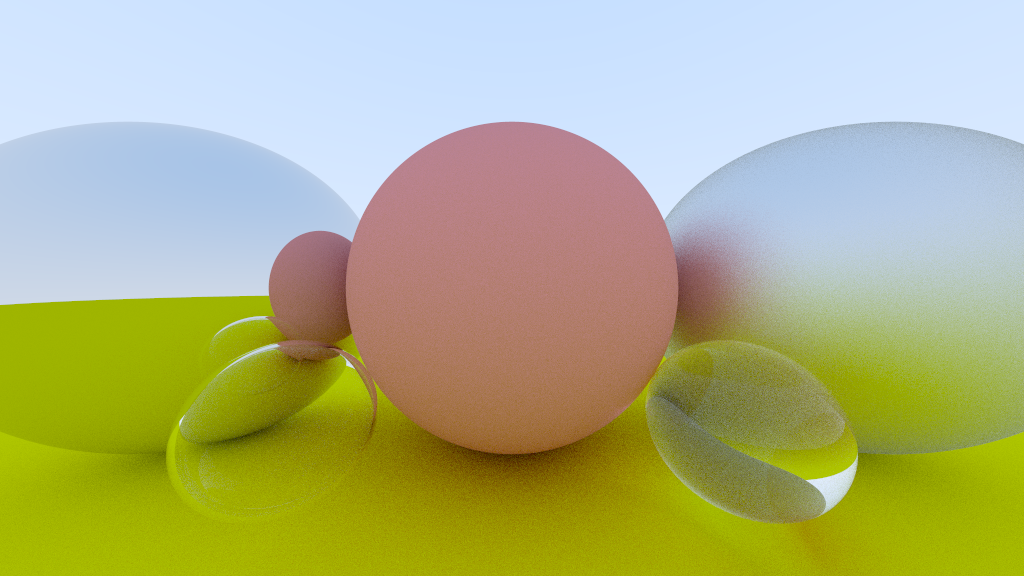
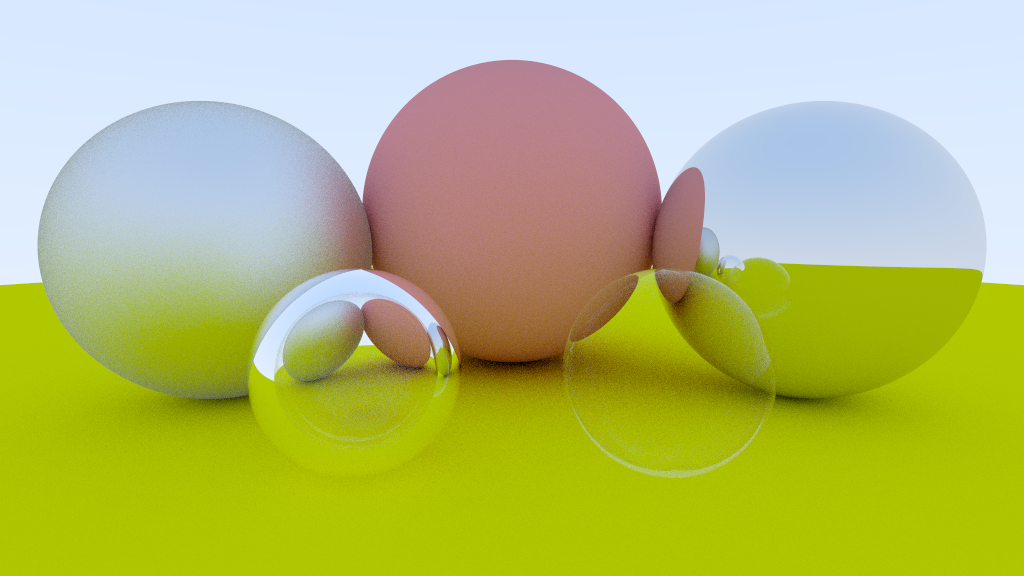
Implement look at target and field of view  parameter for camera

diff --git a/src/render/camera.rs b/src/render/camera.rs
@@ -5,7 +5,10 @@ use crate::math::Ray;
 pub struct Camera
 {
     position: Vec3,
+    look_at: Option<Vec3>,
+    up: Vec3,
 
+    field_of_view: f32,
     source_size: Vec2,
     target_size: Vec2,
 
@@ -21,14 +24,35 @@ impl Camera
         Camera
         {
             position: Vec3::new(0.0, 0.0, 0.0),
+            look_at: None,
+            up: Vec3::new(0.0, 1.0, 0.0),
 
-            source_size: Vec2::new(2.0, 2.0),
+            field_of_view: 90.0,
+            source_size: Vec2::new(1.0, 1.0),
             target_size: Vec2::new(1024.0, 576.0),
 
             near_plane_corner: Vec3::new(0.0, 0.0, 0.0),
             near_plane_width: Vec3::new(0.0, 0.0, 0.0),
             near_plane_height: Vec3::new(0.0, 0.0, 0.0),
         }
+    }
+
+    pub fn set_position(mut self, position: Vec3) -> Self
+    {
+        self.position = position;
+        self
+    }
+
+    pub fn set_look_at(mut self, target: Option<Vec3>) -> Self
+    {
+        self.look_at = target;
+        self
+    }
+
+    pub fn set_field_of_view(mut self, degrees: f32) -> Self
+    {
+        self.field_of_view = degrees;
+        self
     }
 
     pub fn set_source_size(mut self, width: f32, height: f32) -> Self
@@ -59,15 +83,24 @@ impl Camera
             corrected_size.y *= source_aspect_ratio / target_aspect_ratio;
         }
 
-        self.near_plane_corner = Vec3::new(corrected_size.x * -0.5, corrected_size.y * -0.5, -1.0);
-        self.near_plane_width = Vec3::new(corrected_size.x, 0.0, 0.0);
-        self.near_plane_height = Vec3::new(0.0, corrected_size.y, 0.0);
+        corrected_size.x *= self.field_of_view / 90.0;
+        corrected_size.y *= self.field_of_view / 90.0;
+
+        let look_at = self.look_at.unwrap_or(self.position + Vec3::new(0.0, 0.0, -1.0));
+
+        let w = (self.position - look_at).normalized();
+        let u = self.up.cross(w).normalized();
+        let v = w.cross(u);
+
+        self.near_plane_corner = self.position - u * corrected_size.x * 0.5 - v * corrected_size.y * 0.5 - w;
+        self.near_plane_width = u * corrected_size.x;
+        self.near_plane_height = v * corrected_size.y;
 
         self
     }
 
     pub fn calculate_ray(&self, u: f32, v: f32) -> Ray
     {
-        Ray::new(self.position, (self.near_plane_corner + self.near_plane_width * u + self.near_plane_height * v).normalized())
+        Ray::new(self.position, (self.near_plane_corner + self.near_plane_width * u + self.near_plane_height * v - self.position).normalized())
     }
 }

diff --git a/src/main.rs b/src/main.rs
@@ -18,23 +18,25 @@ fn main()
     let image_heigth = 576;
 
     let camera = render::Camera::new()
-        .set_source_size(2.0, 2.0)
+        .set_position(Vec3::new(0.0, 0.0, 0.6))
+        .set_look_at(Some(Vec3::new(0.0, -0.2, -1.0)))
+        .set_field_of_view(90.0)
         .set_target_size(image_width, image_heigth)
         .build();
     
     let scene = render::Scene::new()
-        .add_primitive(primitive::Sphere::new(Vec3::new(0.5, -0.3, -0.65), 0.18, material::Refractive::from(Color::new(1.0, 1.0, 1.0, 1.0), 1.5)))
-        .add_primitive(primitive::Sphere::new(Vec3::new(-0.5, -0.3, -0.65), -0.18, material::Refractive::from(Color::new(1.0, 1.0, 1.0, 1.0), 1.06)))
-        .add_primitive(primitive::Sphere::new(Vec3::new(0.0, 0.0, -1.0), 0.5, material::Diffuse::from(Color::new(0.8, 0.3, 0.3, 1.0))))
-        .add_primitive(primitive::Sphere::new(Vec3::new(1.0, 0.0, -1.0), 0.5, material::Metalic::from(Color::new(0.8, 0.8, 0.8, 1.0), 0.8)))
-        .add_primitive(primitive::Sphere::new(Vec3::new(-1.0, 0.0, -1.0), 0.5, material::Metalic::from(Color::new(0.8, 0.8, 0.8, 1.0), 0.0)))
+        .add_primitive(primitive::Sphere::new(Vec3::new(0.3, -0.3, -0.5), 0.2, material::Refractive::from(Color::new(1.0, 1.0, 1.0, 1.0), 1.008)))
+        .add_primitive(primitive::Sphere::new(Vec3::new(-0.3, -0.3, -0.5), -0.2, material::Refractive::from(Color::new(1.0, 1.0, 1.0, 1.0), 1.3)))
+        .add_primitive(primitive::Sphere::new(Vec3::new(0.0, 0.0, -1.4), 0.5, material::Diffuse::from(Color::new(0.8, 0.3, 0.3, 1.0))))
+        .add_primitive(primitive::Sphere::new(Vec3::new(0.8, -0.1, -1.0), 0.4, material::Metalic::from(Color::new(0.8, 0.8, 0.8, 1.0), 0.0)))
+        .add_primitive(primitive::Sphere::new(Vec3::new(-0.8, -0.1, -1.0), 0.4, material::Metalic::from(Color::new(0.8, 0.8, 0.8, 1.0), 0.8)))
         .add_primitive(primitive::Sphere::new(Vec3::new(0.0, -100.5, -1.0), 100.0, material::Diffuse::from(Color::new(0.8, 0.8, 0.0, 1.0))));
 
     {
         let mut render_image = Image::new(image_width, image_heigth);
         
         render::Renderer::new()
-        .set_camera(&camera)
+            .set_camera(&camera)
             .set_scene(&scene)
             .set_antialias_samples(8)
             .set_scatter_limit(32)
